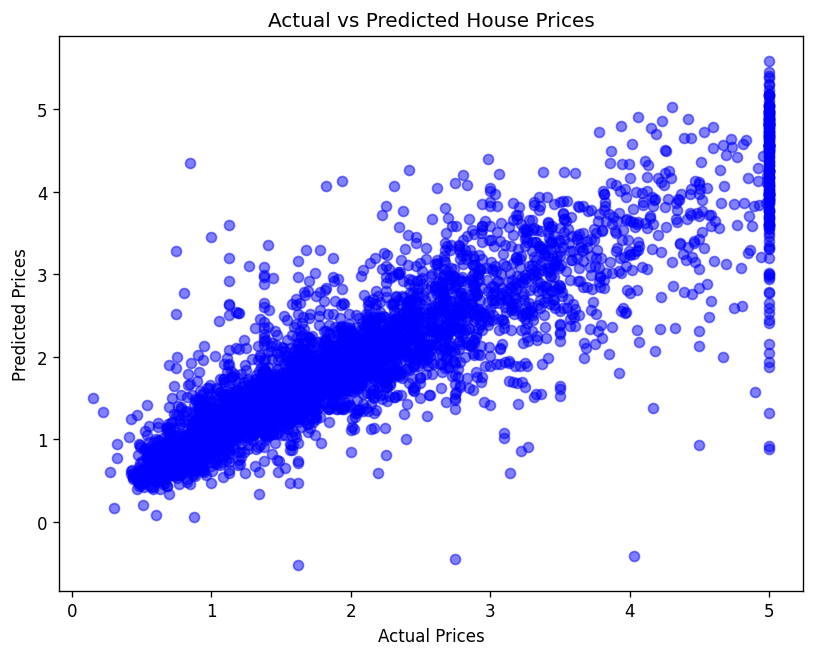
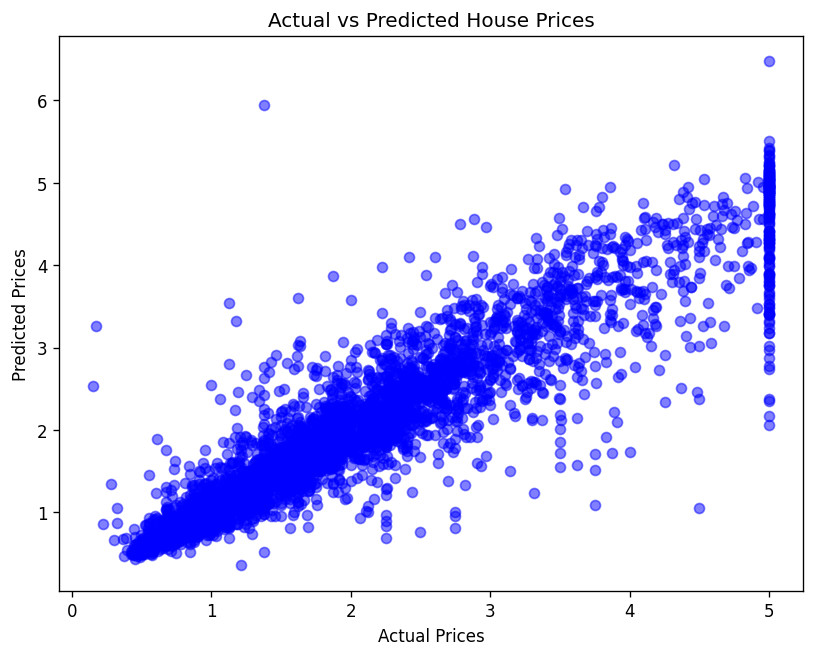
Stabilize house price model with neighbor price feature
- Add average price of 10 nearest training neighbors as a location feature
- Use weight EMA in Adam and a global random seed for stable results
- Restore random_state=42 split so the example house stays unseen
- Regenerate housing plots

diff --git a/src/housing_prices.py b/src/housing_prices.py
@@ -8,6 +8,18 @@ from tensorflow.keras.optimizers import Adam
 from sklearn.model_selection import train_test_split
 from sklearn.preprocessing import StandardScaler
 from sklearn.datasets import fetch_california_housing
+from sklearn.neighbors import NearestNeighbors
+
+LOCATION_COLUMNS = ['Latitude', 'Longitude']
+N_NEIGHBORS = 10
+
+def add_neighbor_price(X, neighbors, neighbor_prices, exclude_self=False):
+    X = X.copy()
+    k = neighbors.n_neighbors - 1
+    idx = neighbors.kneighbors(X[LOCATION_COLUMNS], return_distance=False)
+    idx = idx[:, 1:] if exclude_self else idx[:, :k]
+    X['NeighborPrice'] = neighbor_prices[idx].mean(axis=1)
+    return X
 
 def load_data():
     """
@@ -42,12 +54,18 @@ def preprocess_data(df):
     X = X.fillna(X.median())
     
     # Split into training and testing sets
-    X_train, X_test, y_train, y_test = train_test_split(X, y, test_size=0.2, random_state=0)
+    X_train, X_test, y_train, y_test = train_test_split(X, y, test_size=0.2, random_state=42)
     y_train = y_train.to_numpy()
     y_test = y_test.to_numpy()
     
+    neighbors = NearestNeighbors(n_neighbors=N_NEIGHBORS + 1).fit(X_train[LOCATION_COLUMNS])
+    X_train = add_neighbor_price(X_train, neighbors, y_train, exclude_self=True)
+    X_test = add_neighbor_price(X_test, neighbors, y_train)
+    
     # Standardize numerical features
     scaler = StandardScaler()
+    scaler.neighbors = neighbors
+    scaler.neighbor_prices = y_train
     X_train_scaled = scaler.fit_transform(X_train)
     X_test_scaled = scaler.transform(X_test)
     
@@ -63,7 +81,7 @@ def build_model(input_shape):
     Returns:
     model (Sequential): Compiled neural network model.
     """
-    tf.random.set_seed(42)
+    tf.keras.utils.set_random_seed(42)
     model = Sequential([
         Input(shape=(input_shape,)),
         Dense(256, activation='relu'),
@@ -71,7 +89,7 @@ def build_model(input_shape):
         Dense(64, activation='relu'),
         Dense(1, activation='linear')
     ])
-    model.compile(optimizer=Adam(learning_rate=0.001), loss='mse', metrics=['mae'])
+    model.compile(optimizer=Adam(learning_rate=0.001, use_ema=True, ema_momentum=0.99), loss='mse', metrics=['mae'])
     return model
 
 def train_model(model, X_train, y_train, X_test, y_test, epochs=50, batch_size=32):
@@ -149,9 +167,11 @@ def predict_house_price(model, house_features, scaler):
     """
     # Convert input to a NumPy array and reshape for model
     features = np.array(house_features, dtype=np.float64).reshape(1, -1)
+    features = pd.DataFrame(features, columns=scaler.feature_names_in_[:features.shape[1]])
+    features = add_neighbor_price(features, scaler.neighbors, scaler.neighbor_prices)
 
     # Scale the input features using the same scaler used in training
-    features_scaled = scaler.transform(pd.DataFrame(features, columns=scaler.feature_names_in_))
+    features_scaled = scaler.transform(features)
 
     # Predict price
     predicted_price = float(model.predict(features_scaled, verbose=0)[0, 0])
